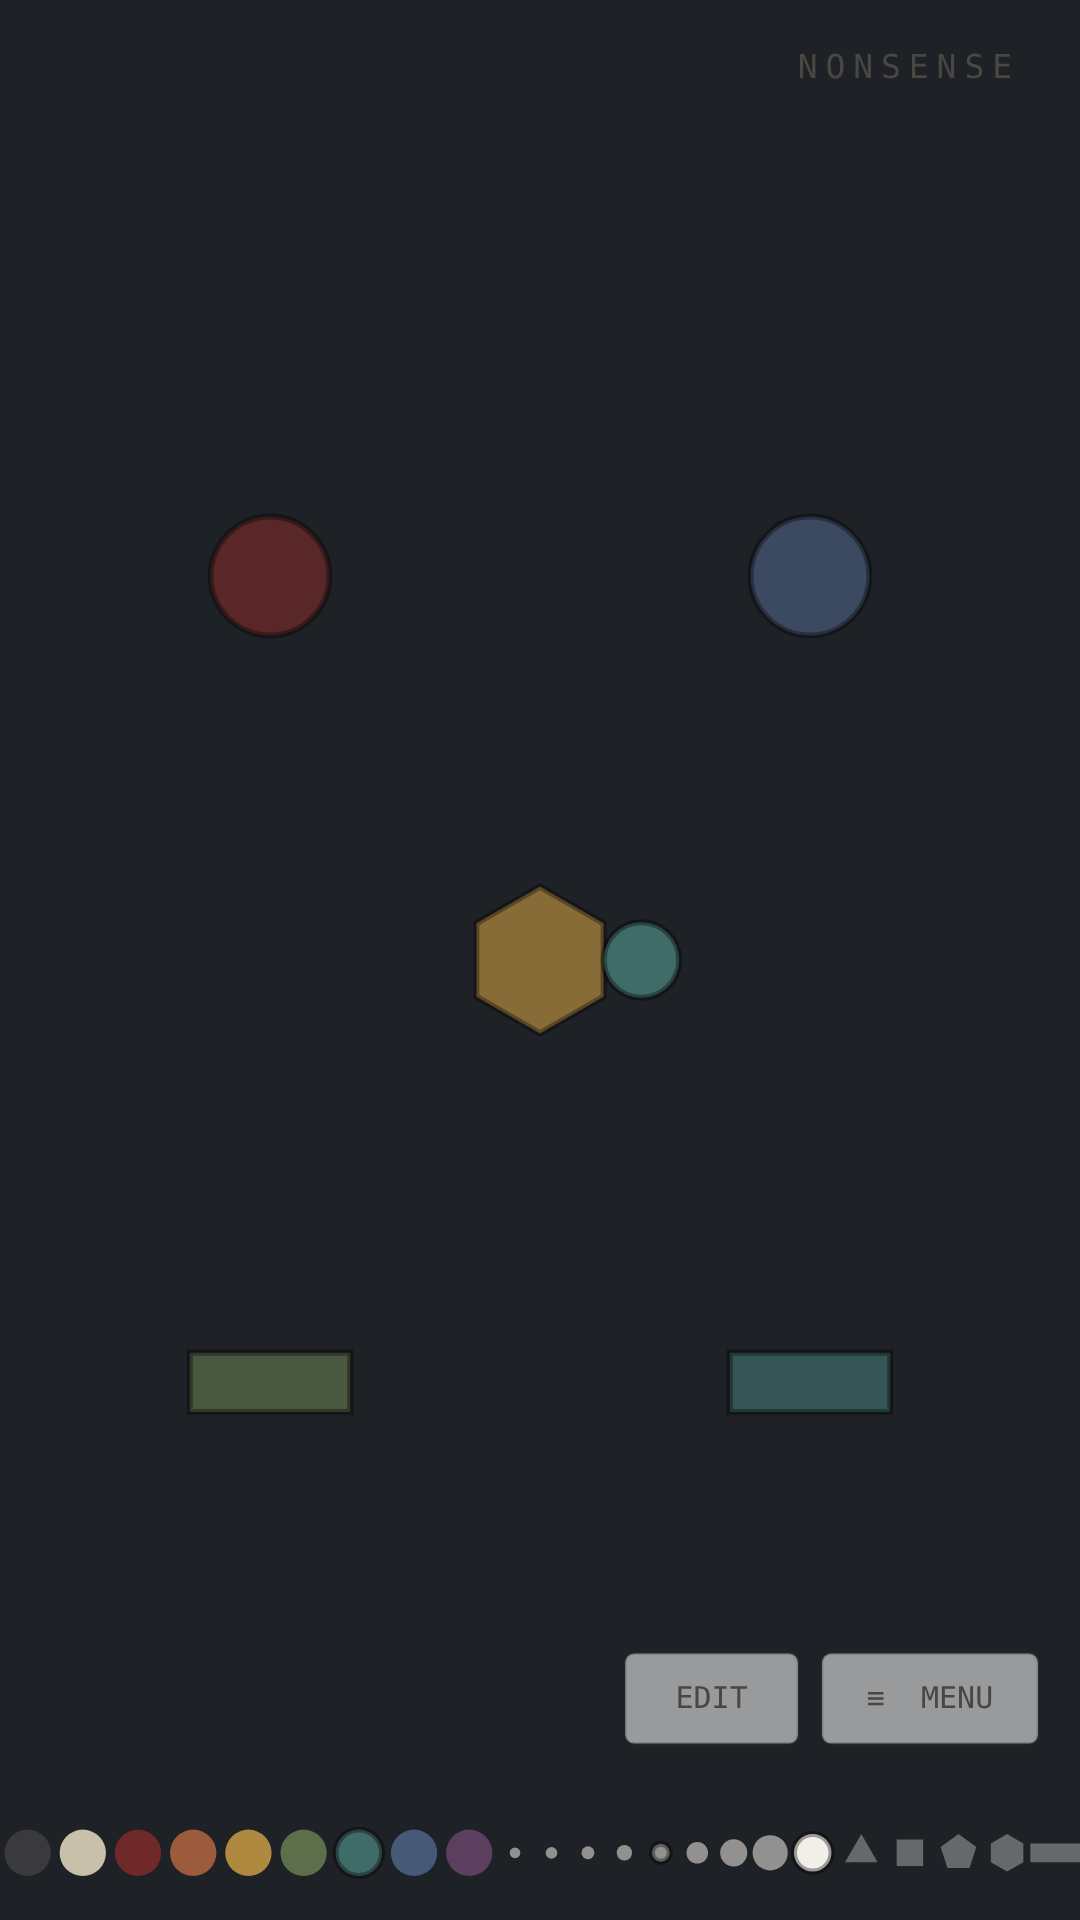
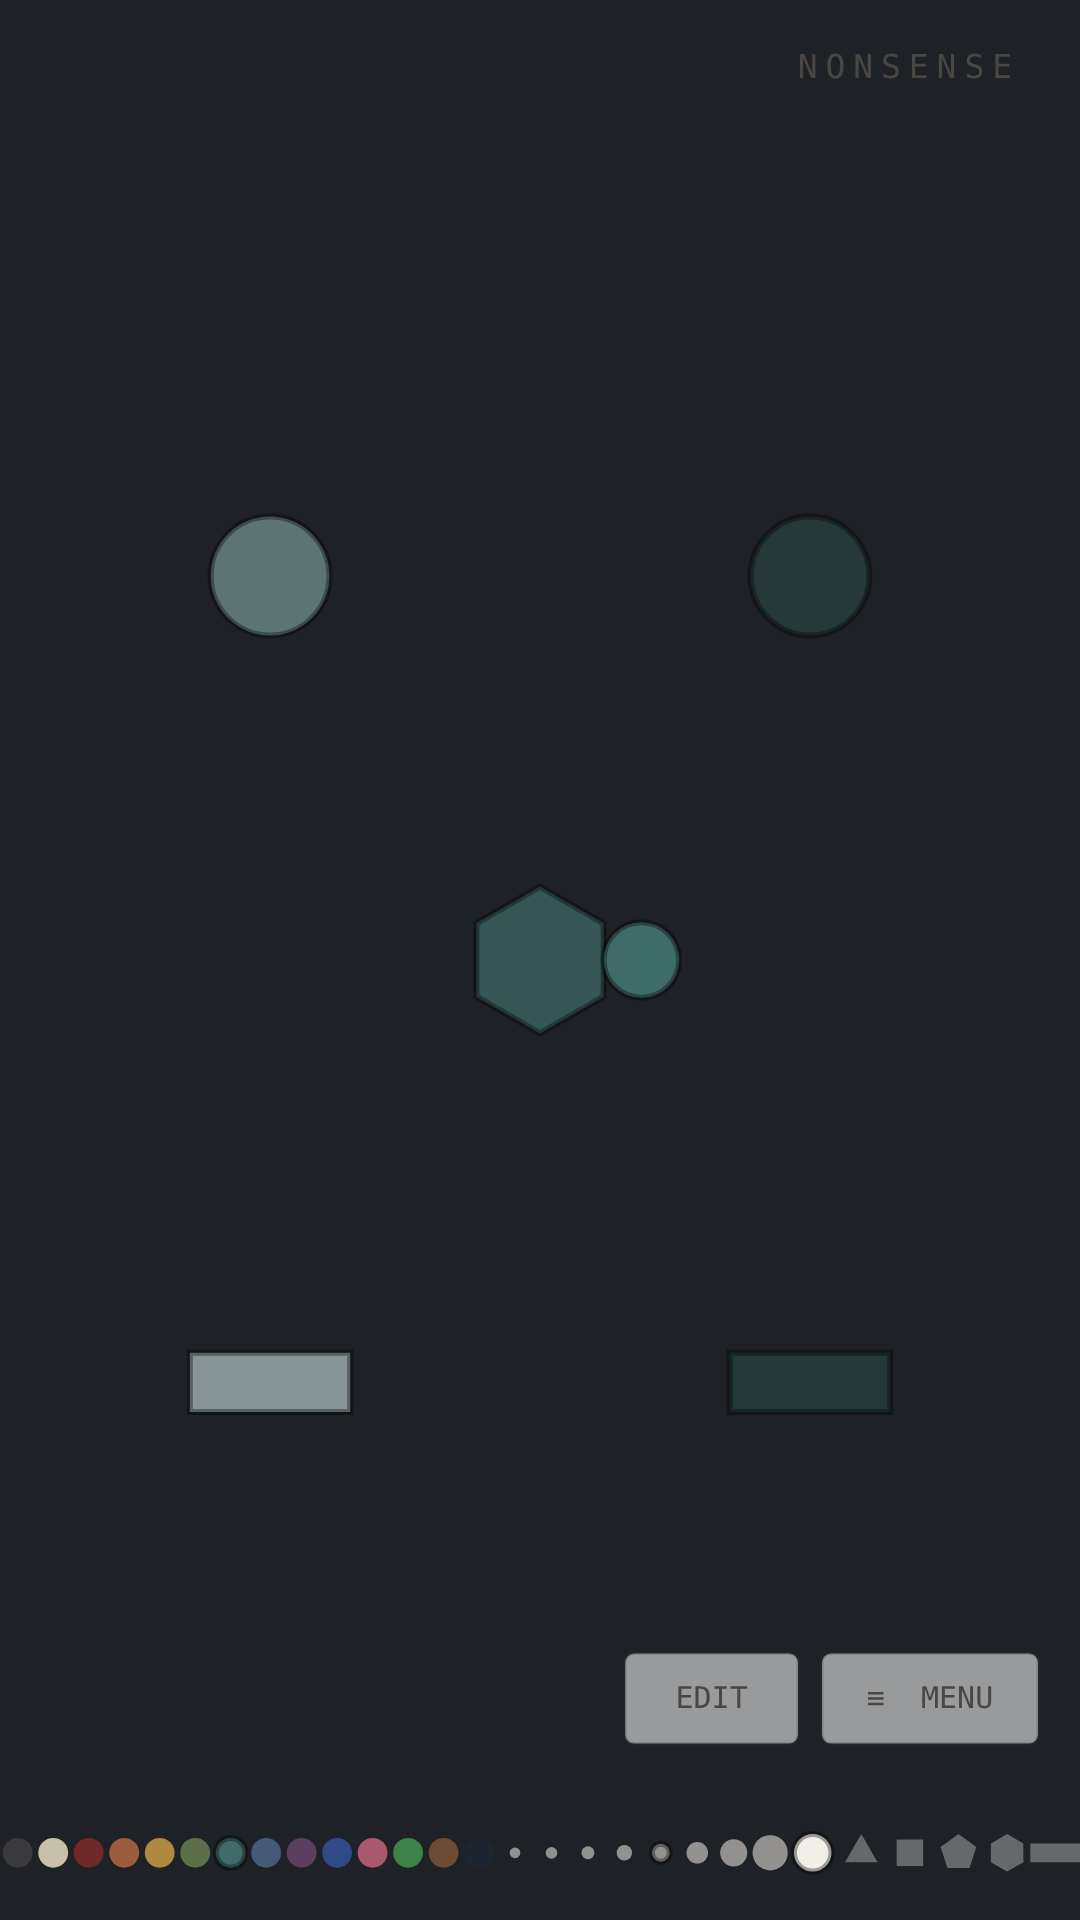
Everything the two stores need, except the accounts
Closing the gaps on this side so the consoles have nothing left to build.

The contact address is real now — chris.hermen@gmail.com, in both policy
pages as a mailto rather than the you@example.com placeholder, and in the
listing. A contact that does not work is an automatic rejection on both
stores, so this was the one thing genuinely blocking submission.

The screenshots were two days old and predated letters, sound, the shared
palette, the new icon and the lightning fix — they showed an app that no
longer exists. Regenerated, and the set grew by two: glass, which had no
scene at all, and the letters, which is the one feature nobody guesses from
a picture of circles.

That letters shot took two goes. The first spelled a word with an N in it,
and a stretched, turned N reads as an H at a glance — a picture that makes
the app look broken rather than clever. It spells TOY now, whose three
letters each survive being large.

Play's feature graphic did not exist; it does now, generated from the same
photograph and the same aura as the icon so the two cannot drift apart.
Its text is measured and shrunk to fit rather than trusted to fit — the
first version ran two of its three lines off the edge, which is precisely
what Play's crop would have made worse.

The privacy and terms URLs in the listing are the live ones rather than
placeholders.

Claude-Session: https://claude.ai/code/session_0135jmHMKroMynbfbKkDMpbT

diff --git a/docs/privacy.html b/docs/privacy.html
@@ -55,7 +55,7 @@ including children.</p>
 history of this page is public, in the repository the app is built from.</p>
 
 <h2>Contact</h2>
-<p>Questions about this policy: <span class="fill">you@example.com</span></p>
+<p>Questions about this policy: <a href="mailto:chris.hermen@gmail.com">chris.hermen@gmail.com</a></p>
 
 <hr>
 <footer>

diff --git a/docs/terms.html b/docs/terms.html
@@ -53,7 +53,7 @@ and the subscription sold through them.</p>
 <p>If these terms change, the date at the top changes with them.</p>
 
 <h2>Contact</h2>
-<p><span class="fill">you@example.com</span></p>
+<p><a href="mailto:chris.hermen@gmail.com">chris.hermen@gmail.com</a></p>
 
 <hr>
 <footer>

diff --git a/STORE-LISTING.md b/STORE-LISTING.md
@@ -92,10 +92,10 @@ or personal information.
 | Field | Value |
 |---|---|
 | App category | Games → Casual, or Apps → Lifestyle. Casual is the better fit |
-| Privacy policy URL | `https://<your-github-username>.github.io/fidget/privacy.html` **[fill]** |
-| Contact email | **[fill]** |
-| Feature graphic | 1024×500 — **[fill]**, see the note below |
-| Phone screenshots | at least 2; use the ones in `store/` |
+| Privacy policy URL | <https://chermen74.github.io/nonsense/privacy.html> |
+| Contact email | chris.hermen@gmail.com |
+| Feature graphic | `brand/feature-graphic.png`, 1024×500. Regenerate with `node tools/feature-graphic.mjs` |
+| Phone screenshots | seven, in `store/play-*.png`, at 1080×1920. Regenerate with `node tools/store-shots.mjs` |
 
 ## Apple App Store
 
@@ -144,9 +144,10 @@ To review the paid features without a purchase: on the paywall, tap
 The app makes no network requests of its own. It collects nothing.
 ```
 
-- **Privacy policy URL**: **[fill]** — same URL as Play.
+- **Privacy policy URL**: <https://chermen74.github.io/nonsense/privacy.html> — same URL as Play.
 - **Terms of use (EULA)**: Apple's standard EULA is the default and is fine;
-  if you would rather use ours, it is at `docs/terms.html`.
+  if you would rather use ours, it is served at
+  <https://chermen74.github.io/nonsense/terms.html>.
 - **App Privacy** ("Data Not Collected"): select **Data Not Collected**. That
   is the whole form.
 
@@ -169,5 +170,4 @@ lightning screen cropped to 1024×500 with the wordmark placed over it would do.
 2. An upload key — `STORE.md` §3. **Never commit it.**
 3. A privacy policy URL — the page exists at `docs/privacy.html`; turn on
    GitHub Pages and it has a URL.
-4. A contact email in both policy pages, where they say `you@example.com`.
 5. For iOS only: a Mac with Xcode, and $99/year.
